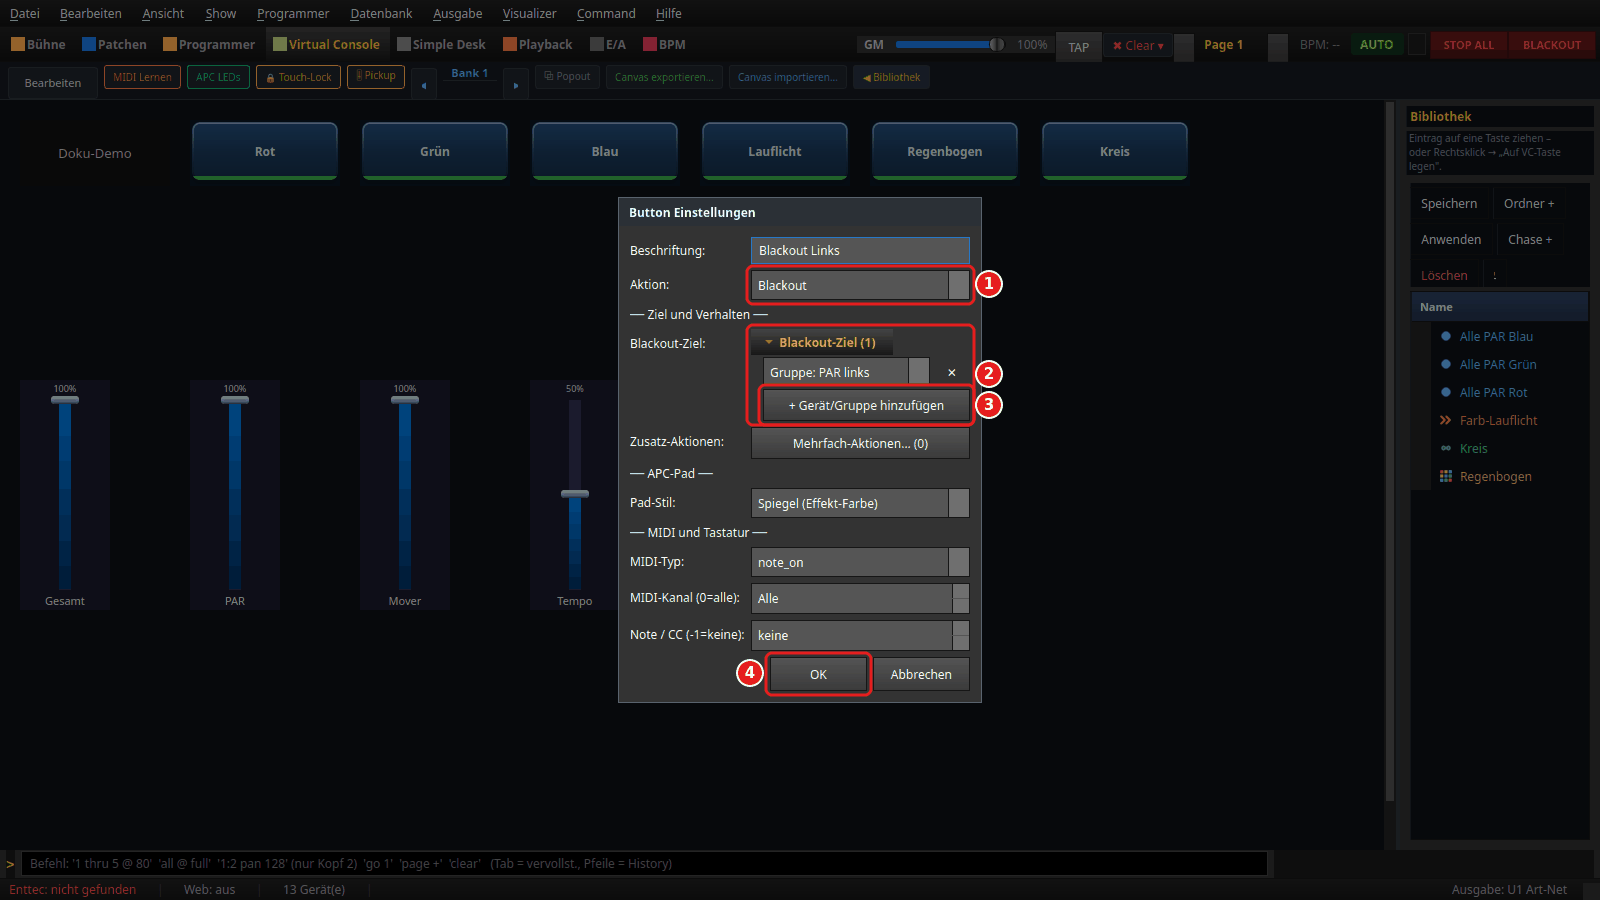
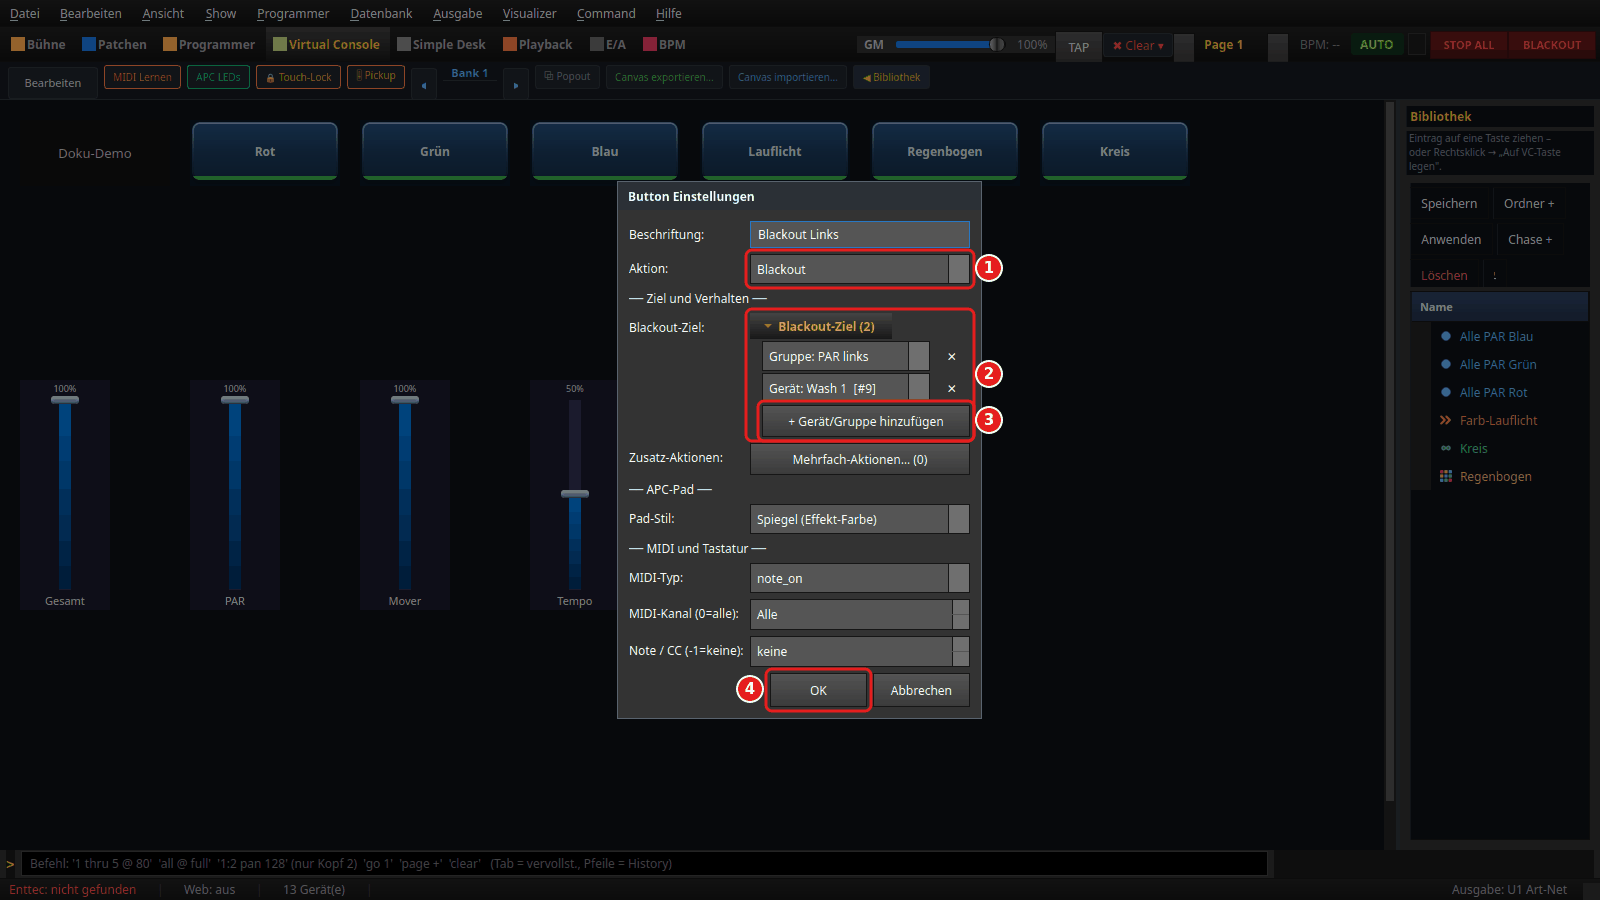
docs: Blackout-Ziel-Bild mit einzelnem Geraet neben der Gruppe (DOC-19)
Nach dem Anzeigename-Fix steht "Geraet: Wash 1 [#9]" lesbar in der Liste.
Szene "Blackout Links" bekommt Wash 1 neben "PAR links", Dialogbild neu
gerendert, Anleitungstext angeglichen. Bilder 02/03 aendern sich dadurch
nicht sichtbar (Wash 1 war im Monitorbild ohnehin aus).

Changed region(s): [[0.375, 0.1867, 0.625, 0.8089]]

diff --git a/tools/anleitungsbilder/szenen_vc_widgets.py b/tools/anleitungsbilder/szenen_vc_widgets.py
@@ -36,18 +36,15 @@ def _taste(ui, name):
 
 
 def _tasten_anlegen(ui):
-    """Zwei Tasten mit Aktion Blackout: „Blackout Links" (Gruppe „PAR links")
-    und „Blackout alles" (leeres Ziel = globaler Blackout).
-
-    Bewusst nur eine Gruppe, kein einzelnes Geraet: die Ziel-Liste zeigte
-    Geraete beim Erstellen dieser Szene als „Gerät: #9 [#9]" statt mit ihrem
-    Namen (``_blackout_choices`` liest ``fx.name``, das Patch-Modell heisst
-    ``label``) — das soll nicht als Soll-Zustand in der Anleitung stehen."""
+    """Zwei Tasten mit Aktion Blackout: „Blackout Links" (Gruppe „PAR links"
+    + Geraet „Wash 1", der linke Wash der Doku-Demo) und „Blackout alles"
+    (leeres Ziel = globaler Blackout)."""
     from PySide6.QtCore import QPoint
     from src.ui.virtualconsole.vc_button import ButtonAction
     canvas = _canvas(ui)
+    wash1 = ui.info["washes"][0]
     for name, text, pos, gruppen, fids in (
-            (_LINKS, "Blackout Links", QPoint(680, 280), [_GRUPPE], []),
+            (_LINKS, "Blackout Links", QPoint(680, 280), [_GRUPPE], [wash1]),
             (_ALLES, "Blackout alles", QPoint(840, 280), [], [])):
         w = _taste(ui, name)
         if w is None:
